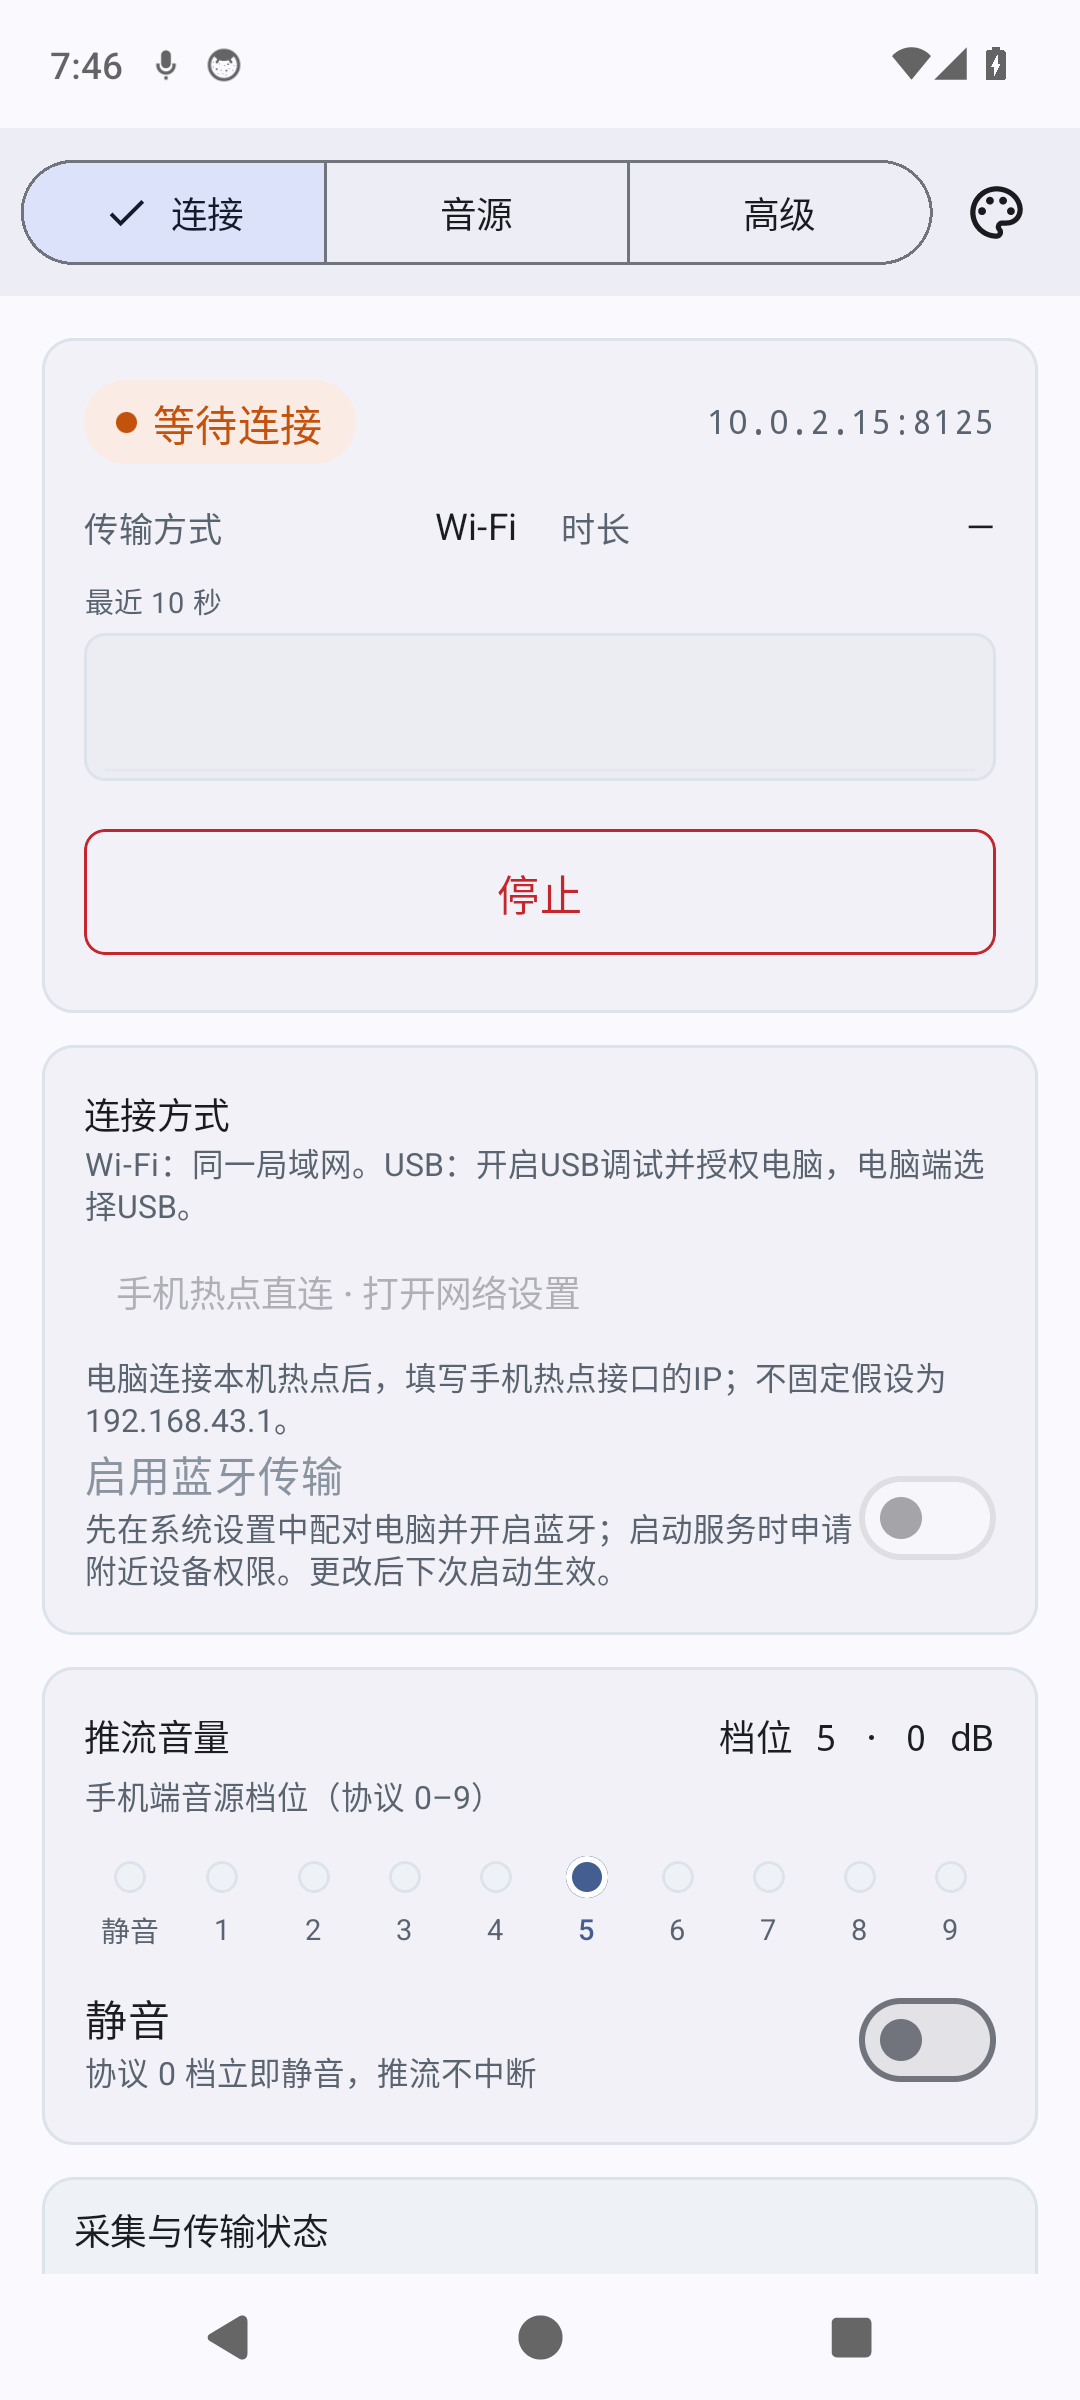
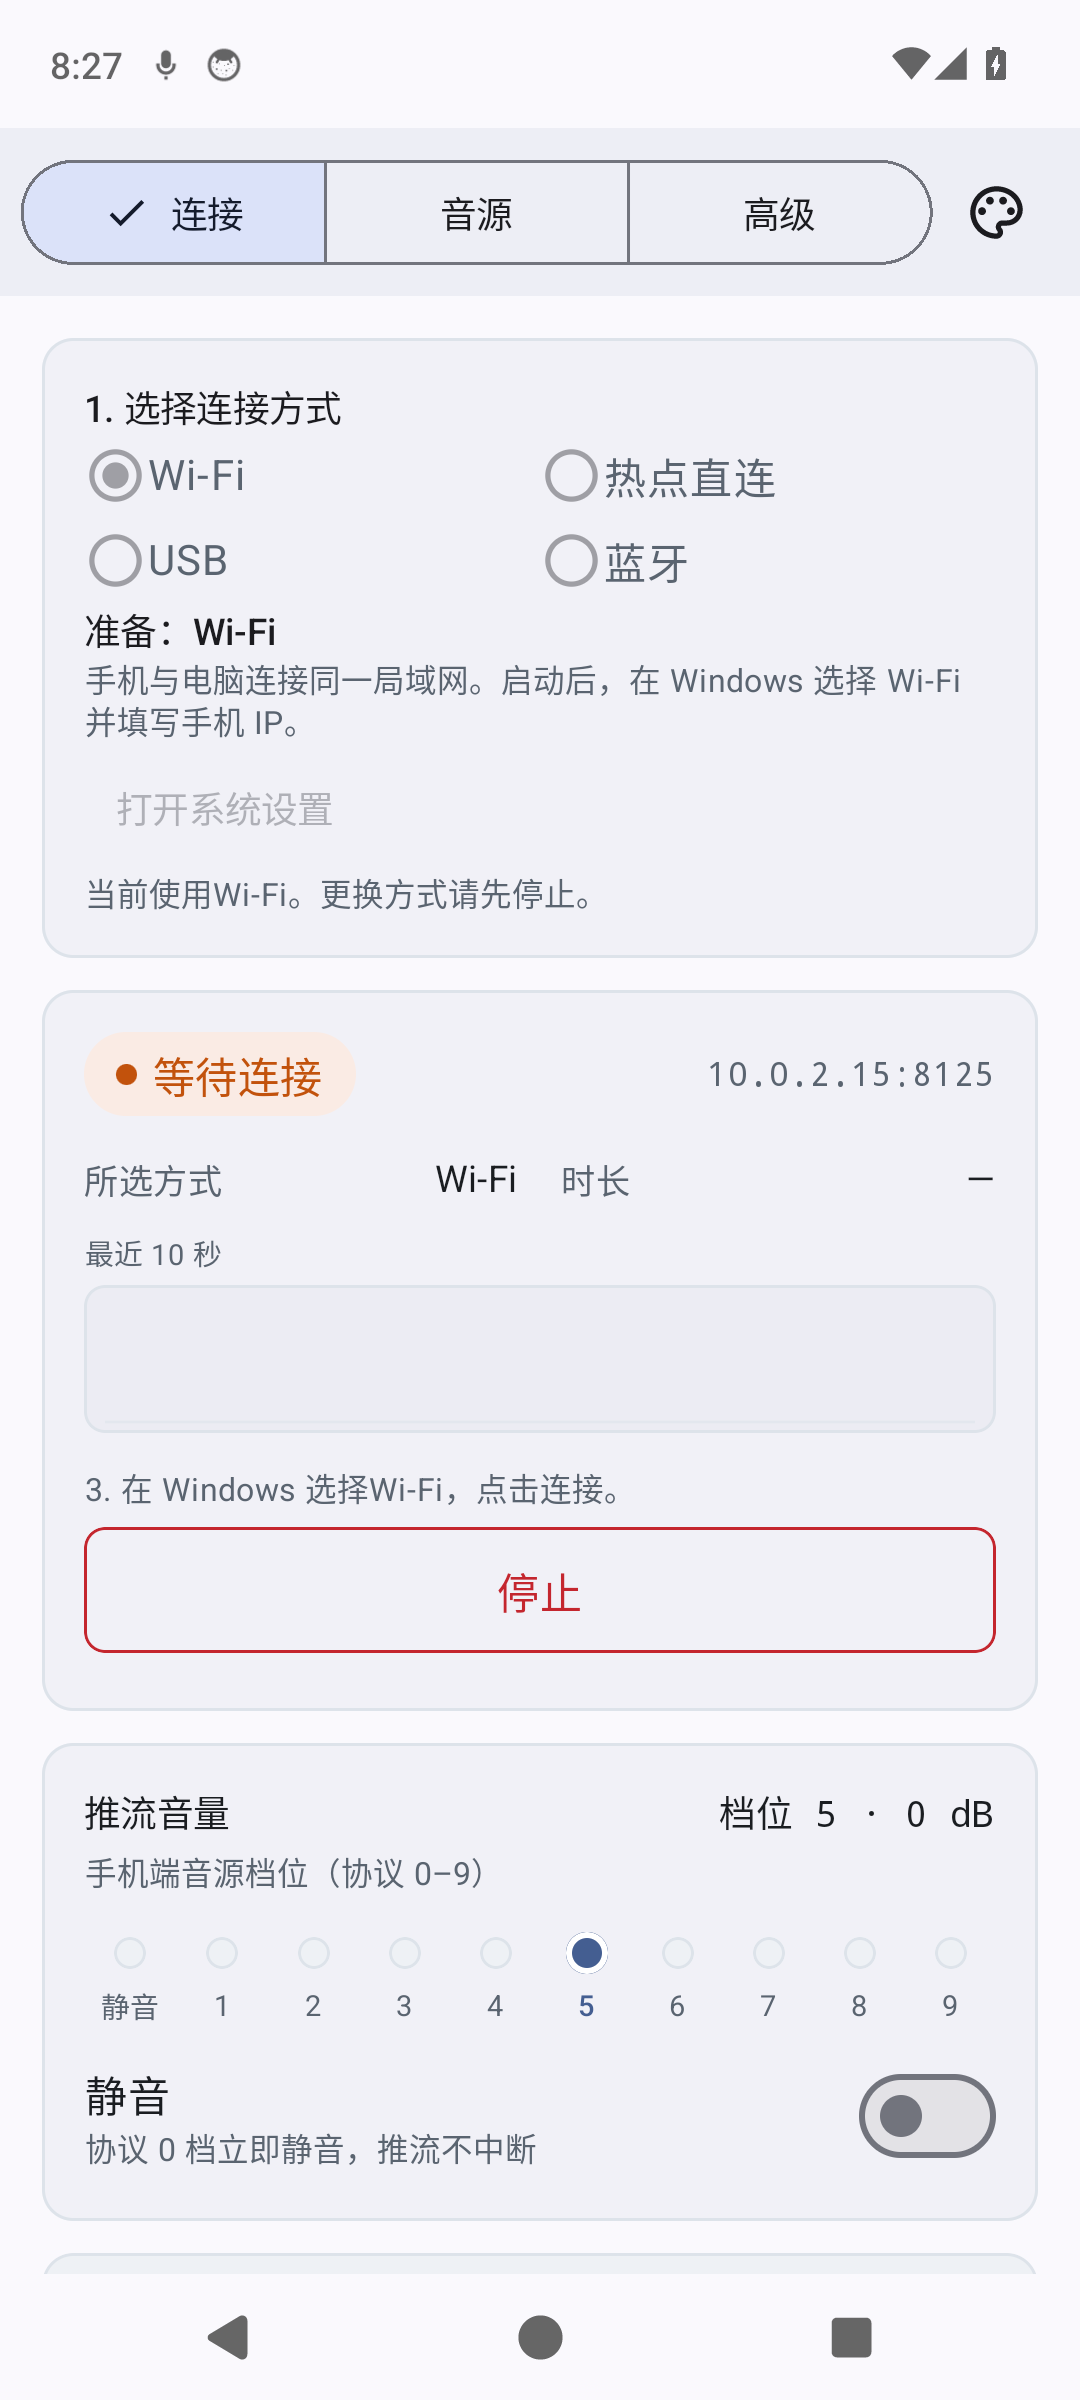
docs: refresh unified connection-flow screenshot and verification record

diff --git a/site/index.html b/site/index.html
@@ -234,7 +234,7 @@
             <figcaption class="shot-caption"><strong>Windows 客户端</strong>深色界面与音频电平面板。输入地址为演示值。</figcaption>
           </figure>
           <figure>
-            <div class="shot"><img src="assets/android-connect-test.png" alt="Android 连接页面截图，展示连接状态、热点直连入口、蓝牙开关和采集控制" loading="lazy"></div>
+            <div class="shot"><img src="assets/android-connect-test.png" alt="Android 连接页面截图，展示四种方式的统一选择、准备步骤、等待状态和采集控制" loading="lazy"></div>
             <figcaption class="shot-caption"><strong>Android · 连接</strong>模拟器界面截图，测试地址不是实际设备地址。</figcaption>
           </figure>
           <figure>

diff --git a/docs/TRANSPORTS.md b/docs/TRANSPORTS.md
@@ -113,3 +113,12 @@ Stop first to change methods. The previous separate Bluetooth switch migrates to
 this shared choice. USB/Bluetooth listen on IPv4 loopback only, require stream
 negotiation, and Bluetooth additionally requires ownership by the RFCOMM relay.
 Wi-Fi/hotspot retain the legacy network protocol and diagnostic stream support.
+
+### Connection-flow revision verification
+
+[Android CI 40655787135](https://github.com/1-1-2/WKB_test/actions/runs/40655787135)
+passes on `e04e10c`: debug/release builds, both emulator UI/legacy protocol/ADB-stream
+runs. The four-choice UI assertion is mandatory. Its release-emulator connection
+screenshot was visually reviewed and replaces the README/product-page image.
+The subsequent relay source-port registration fix and connected-state hint (`d288fdb`)
+pass the local debug build and 104 JVM/app tests. Shell regression: 68 passed.
